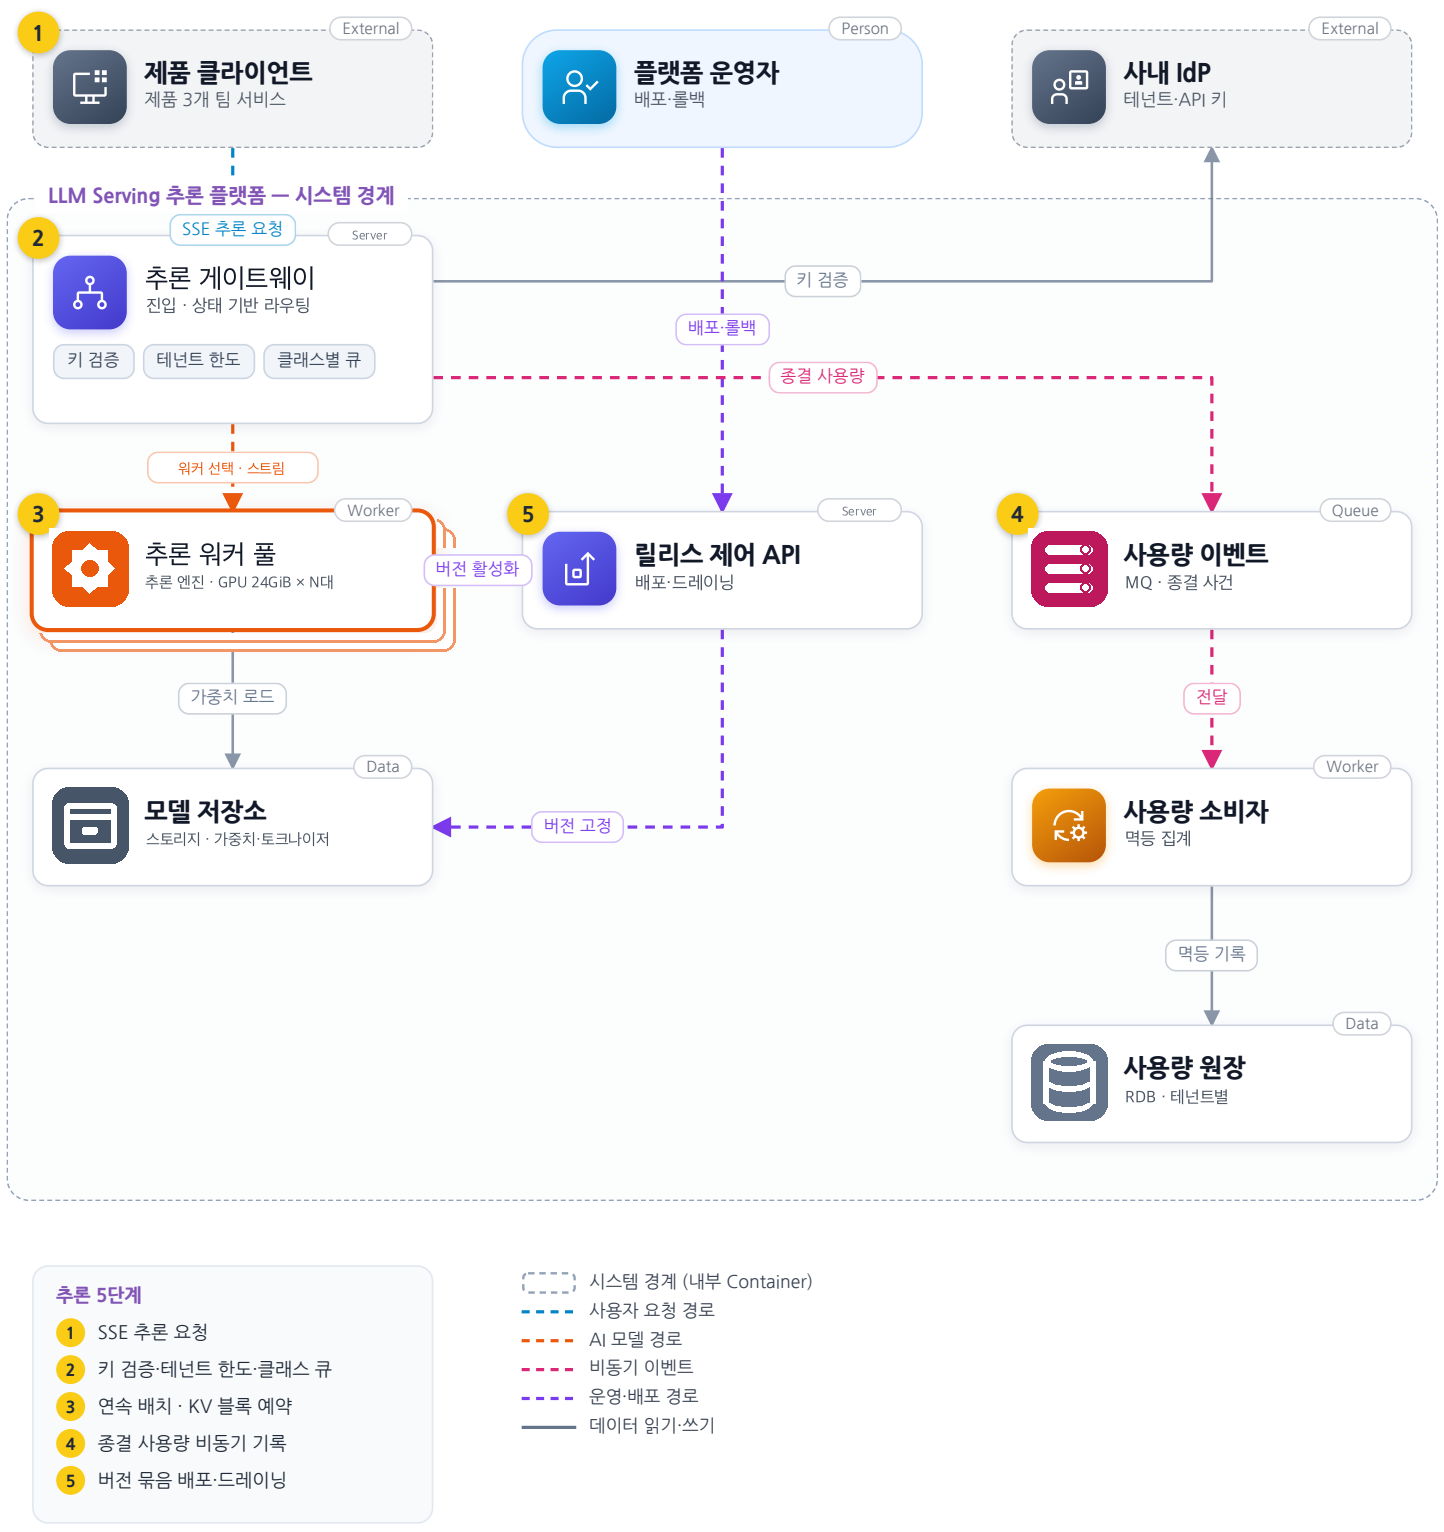
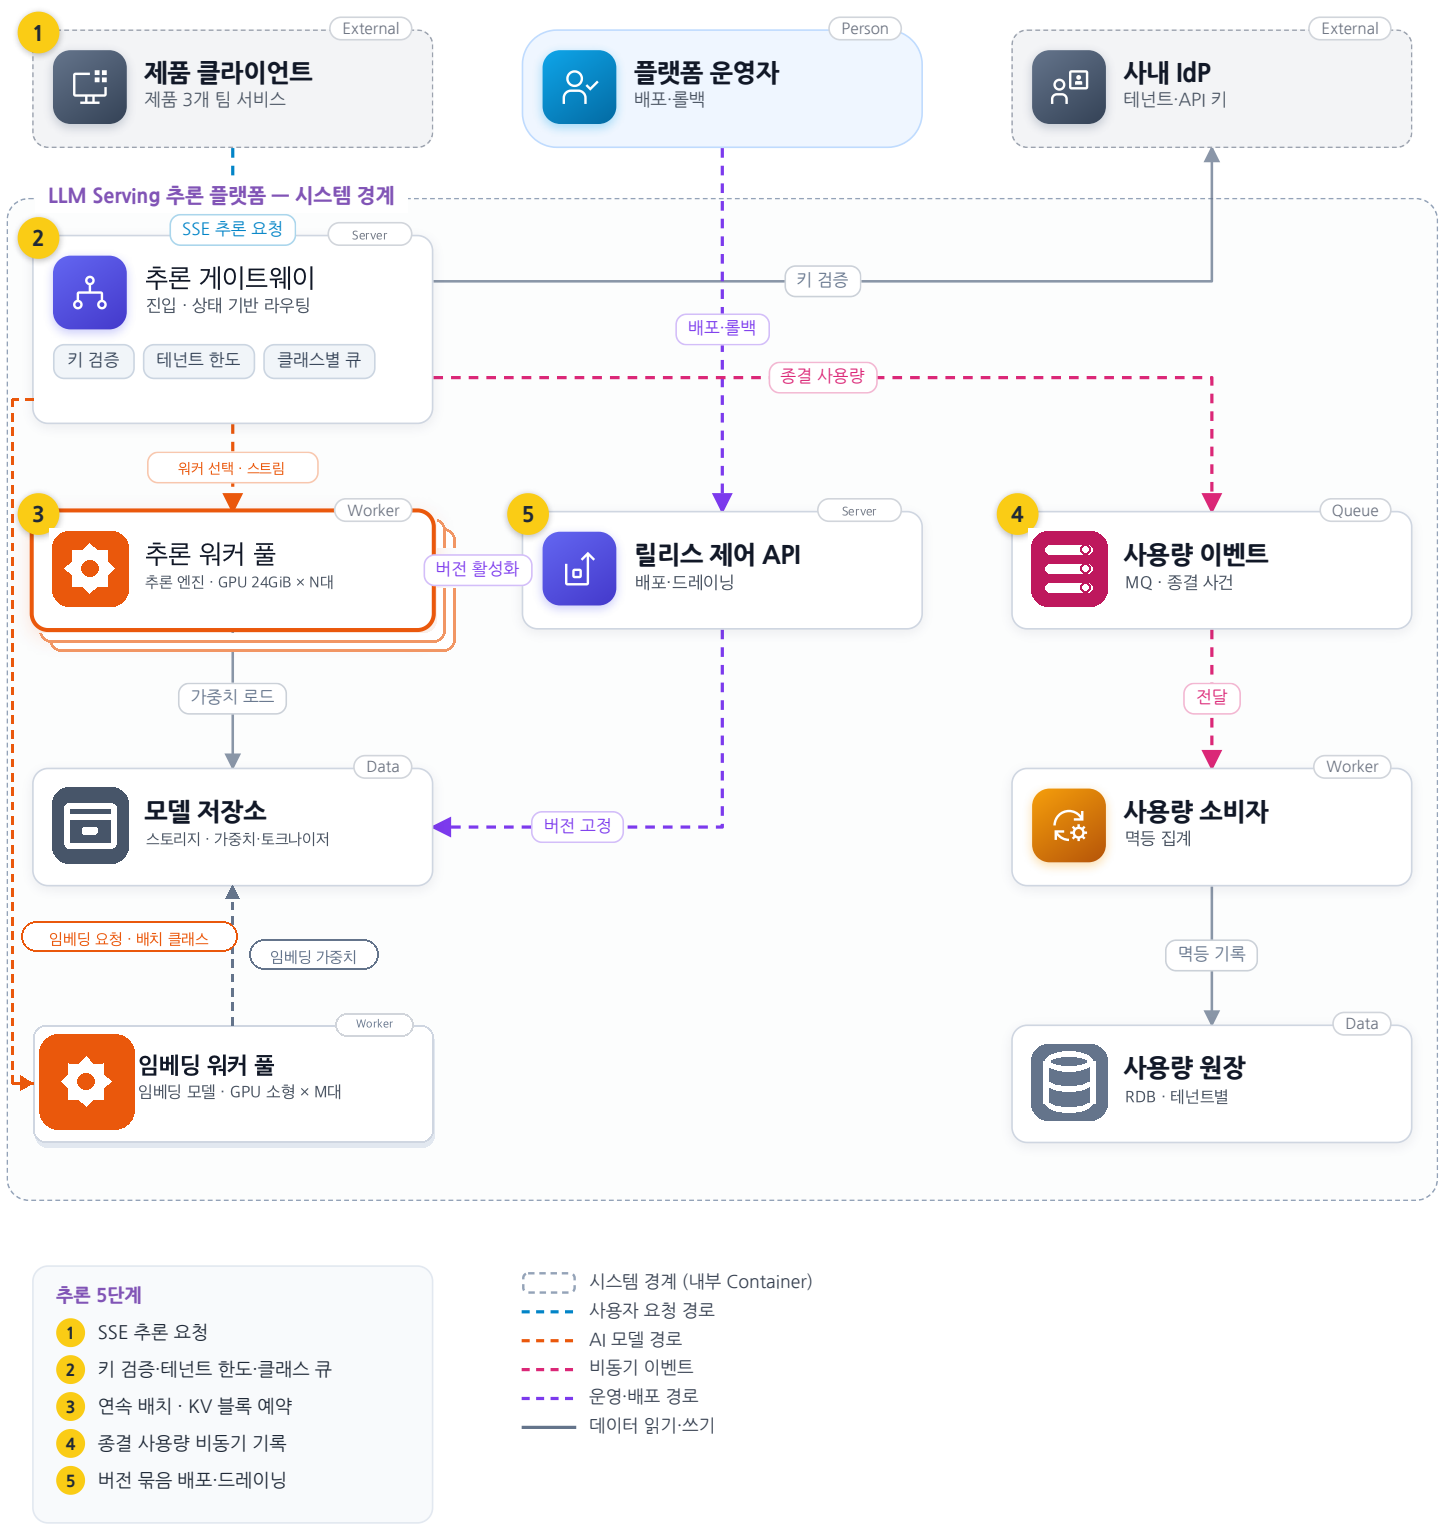
11장: RAG 경로(임베딩 풀·클래스 분리·임베딩 버전 병행) 추가
- 12장 RAG가 쓰는 임베딩 모델을 11장 플랫폼이 제공하도록 범위·규모 수정(생성 50 RPS, 임베딩 100 RPS + 재색인 배치)
- 라우팅 테이블에 생성 풀·임베딩 풀 분리, 임베딩 풀은 KV 없이 토큰 합계 배치 admission, 응답에 (모델, 버전) 표시
- 클래스 3종(대화·문서/RAG·배치), 재색인 배치는 색인 테넌트 한도로 429, 접두어 캐시
- 임베딩 버전은 추가 후 폐기(재색인 중 두 버전 병행), 폐기 버전 요청은 410
- 동시성 흐름 8·9, 멱등성 경계 2행, 검증 13~16, RAG 요청 경로 표, 도식에 임베딩 워커 풀 노드·GIF 장면 2개 추가
- 12장 임베딩 교체 결정에 11장 병행 서빙 연결, 최상위 README 11번 행 갱신

diff --git a/12_AI Service 사내 문서 질의응답/README.md b/12_AI Service 사내 문서 질의응답/README.md
@@ -67,7 +67,7 @@
 - 재색인은 새 버전 조각 삽입 → 문서 활성 버전 포인터를 조건부 갱신(더 큰 버전만) → 옛 조각 비활성화 순서로 하고, 검색은 활성 포인터와 일치하는 조각만 본다
 - 권한 확인 사이(컨텍스트 구성 후, 반환 전)에 회수가 일어나면 해당 조각을 제거하고 남은 근거로 재생성하거나 근거 부족이면 보류한다 · 회수된 문서는 어떤 경우에도 인용되지 않음
 - 질의 API는 RAG 오케스트레이터다 · 질문 임베딩 → 권한 범위 하이브리드 검색(후보 상한 20) → 원본 ACL 일괄 조회(2차) → 컨텍스트 구성 → 생성 호출 → 인용 검증·반환 직전 ACL 재확인(3차) → 보류 판단을 한 요청 안에서 순서대로 수행하고 요청 밖에 상태를 남기지 않는다
-- 임베딩 모델은 생성 LLM과 별개 모델이며 둘 다 사내 추론 플랫폼(11장)이 제공한다 · 검색 색인은 활성 임베딩 버전 하나를 가리키고, 질문 임베딩은 요청 시작 시 읽은 그 버전으로 계산해 조각과 같은 벡터 공간에서 비교한다 · 임베딩 모델 교체는 새 색인에 20만 문서를 전부 재색인한 뒤 포인터를 바꾸는 전환이지 제자리 갱신이 아니다
+- 임베딩 모델은 생성 LLM과 별개 모델이며 둘 다 사내 추론 플랫폼(11장)이 제공한다 · 검색 색인은 활성 임베딩 버전 하나를 가리키고, 질문 임베딩은 요청 시작 시 읽은 그 버전으로 계산해 조각과 같은 벡터 공간에서 비교한다 · 임베딩 모델 교체는 새 색인에 20만 문서를 전부 재색인한 뒤 포인터를 바꾸는 전환이지 제자리 갱신이 아니다 · 재색인 기간에는 11장이 옛·새 임베딩 버전 풀을 함께 서빙하고, 옛 버전 폐기는 이 포인터 전환 뒤에 한다
 - 원본 ACL 재확인은 문서 시스템의 일괄 조회 API 1회 호출이다 · 후보 상한 20이면 피크 30 RPS에서 초당 30회 호출·600건 문서 확인이 문서 시스템에 걸리는 부하이고, 이 한도를 문서 시스템 쪽과 합의하는 것이 전제다 · 타임아웃(예: 500ms)·부분 응답은 fail-closed로 보호 조각 전부 제외
 - 임베딩 호출이 실패하면 키워드 검색만으로 후보를 만들고 답변에 의미 검색 미적용을 표시한다 · 권한 경계는 ACL 재확인이 지키므로 검색 방식 축소는 기밀성에 영향이 없다
 - 검색 설정(top-k·청크 크기·하이브리드 가중치)·프롬프트·임베딩 버전은 하나의 질의 번들로 묶어 15장 평가 게이트를 거친다 · 게이트 지표는 RAG 전용 지표이며 근거 충실도 ≥ 0.9, 문맥 정밀도·답변 관련성은 현재 활성 대비 −3%p 이내 · 골든 질문 세트는 평가 전용 계정의 권한 범위 안 문서로만 만들고 평가 로그에도 ACL 재확인을 적용한다

diff --git a/README.md b/README.md
@@ -16,7 +16,7 @@
 | [08](<./08_실시간 공동 문서 편집 시스템/README.md>) | 고급 | 실시간 공동 문서 편집 시스템 | 동시 1만 명 · 문서당 최대 100명 | CRDT · 문서 ID 소유권 · 권한 세대 · 스냅샷 + 변경 로그 복구 |
 | [09](<./09_여러 판매 채널의 재고 동기화 시스템/README.md>) | 고급 | 여러 판매 채널의 재고 동기화 시스템 | SKU 100만 개 · 채널 5개 · 피크 주문 5,000건/초 | 중앙 재고 = 유일 권한 · Outbox · 채널 회수 확인 후 재배분 |
 | [10](<./10_광고 성과·기여도 분석 시스템/README.md>) | 고급 | 광고 성과·기여도 분석 시스템 | 일 10억 이벤트 · 보고 목표 5분 | 스트림 잠정치 + 배치 정정 · 보고 버전 전환 · 동의 범위 귀속 |
-| [11](<./11_LLM Serving 추론 플랫폼/README.md>) | 고급 | LLM Serving 추론 플랫폼 | 피크 20 RPS · 첫 토큰 p95 1.5초 목표 | 추론 게이트웨이 · 테넌트 한도 · 유한 큐 · 가중 최소 부하 라우팅 · 연속 배치·KV 예약 · 버전 묶음 배포 |
+| [11](<./11_LLM Serving 추론 플랫폼/README.md>) | 고급 | LLM Serving 추론 플랫폼 | 생성 피크 50 RPS · 임베딩 100 RPS + 재색인 배치 · 첫 토큰 p95 1.5초 | 추론 게이트웨이 · 테넌트 한도 · 유한 큐 · 가중 최소 부하 라우팅 · 연속 배치·KV 예약 · 생성·임베딩 풀 분리(RAG) · 버전 묶음 배포 |
 | [12](<./12_AI Service 사내 문서 질의응답/README.md>) | 고급 | AI Service 사내 문서 질의응답 | 직원 5천 명 · 문서 20만 개 · 피크 30 RPS | 권한 범위 검색 · 원본 ACL 재확인 · 근거 인용 · 임베딩 버전 고정 · 비동기 색인 |
 | [13](<./13_AIOps 장애 탐지와 대응/README.md>) | 고급 | AIOps 장애 탐지와 대응 | 서비스 120개 · 로그 피크 2만 건/초 | 핵심 경보는 AI 우회 · 다채널 호출·에스컬레이션 · 지연 예산·복구 전략 · 보조 분석 · 사람 승인 후 조치 |
 | [14](<./14_MLOps 모델 학습·배포 파이프라인/README.md>) | 고급 | MLOps 모델 학습·배포 파이프라인 | 일 학습 데이터 2천만 행 · 예측 피크 2천 RPS | 특징 저장소 · 시점 고정 학습 · 해시 등록 · 임계치 게이트 → 그림자 → 카나리 · 무중단 로드·롤백 · 라벨 성숙 후 평가 |
